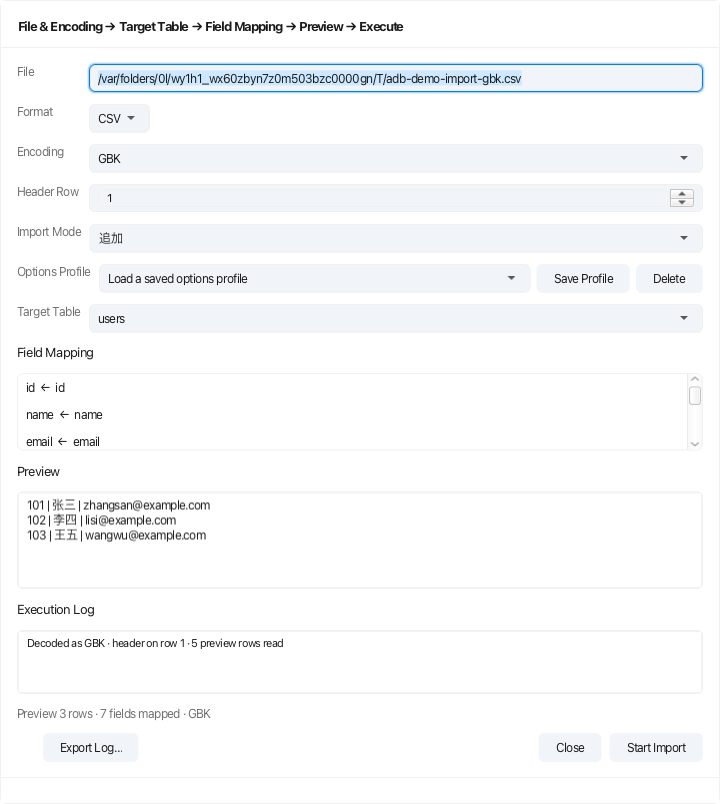
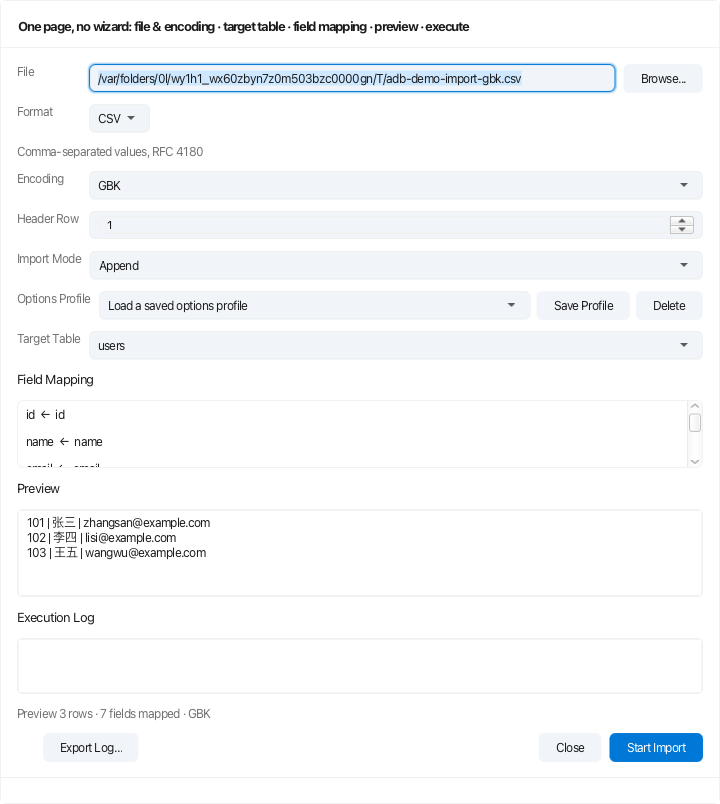
feat(ui): R65-c —— D-73 三向导路径格补真浏览按钮 + #wizard-browse 补上门禁
D-73：导出/导入两个向导的 Target File / File 两格此前只能一个字符一个字符敲绝对路径，
行尾是空的；全仓只有连接向导有 FileChooser。三处同族一次收：路径格与 Browse 按钮进同一个
HBox（字段吃剩余宽度），选择通道抽成可注入字段 fileChooser + setFileChooserForTest ——
Monocle 按不住原生面板，真弹窗在这台机器上永远等不到返回值，不注入就没法把
「按钮点了没反应」和「按钮根本没接选择器」区分开。回填仍过 withExtension（后缀与格式不能对不上），
导入侧不手动刷预览，回填骑 D-67 那条真实监听器。
先例 #wizard-browse 至今零门禁，本轮一起钉住 —— 别让后人抄一个没验证过的形状。

资源：export.target.chooserTitle / import.file.chooserTitle 各两份，wizard.file.* 复用连接向导已有三条。

门禁 3 条先红后绿：bothWizardsOfferAFileChooserForTheirPathField（存在 + 与路径格同一行，
sharesARowWith 往上走最多三层、不写死层数，实现换包法不该红在版式上）、
browseButtonsFillThePathFromTheChosenFile（数选择器调用次数 + 回填 + 后缀闸 + 预览自己出来）、
ConnectionWizardTest.theSqliteBrowseButtonFillsTheFileFieldFromTheChooser（可见 + 真弹 + 回填）。
变异 8 条各红自己：M1/M3 按钮挪出行、M2a/M4/M5b handler 掏空（假按钮）、
M2b 摘 setText、M5c 先例按钮挪出行、M6 回填绕过 withExtension。

三条口径：① 后缀期望我第一版编严了 —— withExtension 只替换已知导出后缀，
report.dat 原样保留，所以期望改成 picked-report.json → .csv；红了先回代码核实规则，别改实现迎合期望。
② 跨类级联红不是变异的证据：M1 那轮三条全红，连接那条单跑必绿 —— 前一个类失败会挪走
TestFX 的窗口目标。判隔离只认单跑。
③ 帧会被同树别的会话覆盖：20:14 另一会话的全量帧批把我刚拍的 p8-export 盖回 HEAD 旧图，
我差点据此判「导出侧按钮没渲染」。此后拍完立刻留一份副本、读之前先比 md5/字节数。

回归：adb-ui-core 69/0；adb-ui-shell 全量 915 条仅 1 红 = D-85 第一族 pose 浮层（单类 10/0 绿）；
另有一轮 423 条时 fork JVM 在 ToolbarIconChannelTest 无声退出（Exit Code 0、无 dump、单跑 6/0 绿）
—— 记为 D-85 第四族。基线 912 → 915（+3 条新门禁）。
帧：p8-export 720x725 → 720x779、p8-import 720x779 → 720x804，两格行尾均实拍到 Browse…。

diff --git a/ui/adb-ui-shell/src/test/java/io/agenticdb/ui/shell/TransferWizardTest.java b/ui/adb-ui-shell/src/test/java/io/agenticdb/ui/shell/TransferWizardTest.java
@@ -1020,6 +1020,133 @@ class TransferWizardTest {
         }
     }
 
+    /**
+     * ⭐ D-73（2026-11-05）：两个向导的路径格不许只有手打。
+     *
+     * <p>帧证 `p8-export` / `p8-import`：Target File / File 两行行尾**没有浏览按钮**，
+     * 路径只能一个字符一个字符敲 —— 而同仓 `ConnectionWizard` 早就有 `#wizard-browse`
+     * 的正确先例（HBox + ghost 按钮 + FileChooser 回填）。向导族里只有连接向导能选文件，
+     * 这就是「同一件事两套做法」的形状，不是缺功能。
+     */
+    @Test
+    void bothWizardsOfferAFileChooserForTheirPathField() throws Exception {
+        DbSession session = JdbcSession.open(ConnectionSpec.sqlite(
+                DemoDatabase.create(temp.resolve("d73a.db"))));
+        executor = Executors.newSingleThreadExecutor();
+        try {
+            ExportWizard export = onFx(() -> new ExportWizard(session, "users",
+                    List.of("id", "name"), ExportWizard.Scope.WHOLE_TABLE,
+                    temp.resolve("d73a.csv"), executor, message -> { }));
+            ImportWizard importWizard = onFx(() -> new ImportWizard(session, "users",
+                    userColumns(), List.of("users"), null, executor, message -> { }));
+
+            // 按钮必须**和路径格在同一行**（不是页面上随便一处），否则等于没在补这条。
+            // 不写死层数：改成「从路径格往上走，能不能在某一层碰到那颗按钮」——
+            // 钉死 parent.parent 的话，实现换个包法门禁就红在版式上而不是行为上。
+            for (Object[] pair : List.of(
+                    new Object[] {export.content(), "#export-target", "#export-target-browse"},
+                    new Object[] {importWizard.content(), "#import-file", "#import-file-browse"})) {
+                VBox content = (VBox) pair[0];
+                javafx.scene.Node field = onFx(() -> content.lookup((String) pair[1]));
+                javafx.scene.Node button = onFx(() -> content.lookup((String) pair[2]));
+                assertThat(button)
+                        .as(pair[2] + " 必须存在（帧上实拍路径行行尾是空的）")
+                        .isInstanceOf(javafx.scene.control.Button.class);
+                assertThat(sharesARowWith(field, button))
+                        .as(pair[2] + " 必须排在 " + pair[1] + " 同一行右侧")
+                        .isTrue();
+            }
+        } finally {
+            executor.shutdownNow();
+            session.close();
+        }
+    }
+
+    /** 从 field 往上走最多三层，看这一支里是否也装着 button。 */
+    private static boolean sharesARowWith(javafx.scene.Node field, javafx.scene.Node button) {
+        javafx.scene.Node cursor = field.getParent();
+        for (int depth = 0; cursor != null && depth < 3; depth++, cursor = cursor.getParent()) {
+            if (cursor instanceof javafx.scene.layout.Pane pane
+                    && pane.getChildren().contains(button)) {
+                return true;
+            }
+        }
+        return false;
+    }
+
+    /**
+     * D-73：按下浏览 → 选中的文件真的回填进路径格。
+     *
+     * <p>选择器走**注入替身**（`setFileChooserForTest`）：Monocle 按不住原生面板，
+     * 真弹窗在这台机器上永远等不到结果 —— 但替身必须被调用到，
+     * 否则「按钮存在但点了什么也不做」照样能绿（所以断言里数了调用次数）。
+     */
+    @Test
+    void browseButtonsFillThePathFromTheChosenFile() throws Exception {
+        DbSession session = JdbcSession.open(ConnectionSpec.sqlite(
+                DemoDatabase.create(temp.resolve("d73b.db"))));
+        executor = Executors.newSingleThreadExecutor();
+        try {
+            Path chosen = temp.resolve("chosen.csv");
+            Files.writeString(chosen, "id,name\n911,Picked Row\n", StandardCharsets.UTF_8);
+
+            ExportWizard export = onFx(() -> new ExportWizard(session, "users",
+                    List.of("id", "name"), ExportWizard.Scope.WHOLE_TABLE, null,
+                    executor, message -> { }));
+            ImportWizard importWizard = onFx(() -> new ImportWizard(session, "users",
+                    userColumns(), List.of("users"), null, executor, message -> { }));
+
+            AtomicReference<Integer> exportCalls = new AtomicReference<>(0);
+            AtomicReference<Integer> importCalls = new AtomicReference<>(0);
+            onFxRun(() -> {
+                export.setFileChooserForTest(window -> {
+                    exportCalls.set(exportCalls.get() + 1);
+                    return chosen.toFile();
+                });
+                importWizard.setFileChooserForTest(window -> {
+                    importCalls.set(importCalls.get() + 1);
+                    return chosen.toFile();
+                });
+            });
+
+            onFxRun(() -> ((javafx.scene.control.Button)
+                    export.content().lookup("#export-target-browse")).fire());
+            TextField exportField = onFx(() -> (TextField) export.content().lookup("#export-target"));
+            assertThat(exportCalls.get()).as("浏览必须真的走选择器，不是硬塞一个路径").isEqualTo(1);
+            assertThat(exportField.getText())
+                    .as("选中的文件要回填进导出目标格（含当前格式的扩展名）")
+                    .startsWith(chosen.toAbsolutePath().toString());
+
+            // ⭐ 浏览这条路也要过后缀闸：选一个**已知导出后缀**与当前格式不符的文件，
+            //    回填的要折成当前格式的 .csv（`withExtension` 的既有规则：只动已知后缀，
+            //    用户自定义名如 `report.dat` 原样保留）。少了这句，
+            //    「浏览直接 setText(picked.getAbsolutePath())」也能全绿 ——
+            //    界面标着 CSV、落盘文件叫 .json，导出完用户自己找不到东西。
+            Path knownWrong = temp.resolve("picked-report.json");
+            onFxRun(() -> export.setFileChooserForTest(window -> knownWrong.toFile()));
+            onFxRun(() -> ((javafx.scene.control.Button)
+                    export.content().lookup("#export-target-browse")).fire());
+            assertThat(exportField.getText())
+                    .as("选中已知后缀与格式不符的文件时，要按当前格式改写后缀（默认 CSV）")
+                    .isEqualTo(temp.resolve("picked-report.csv").toAbsolutePath().toString());
+
+            onFxRun(() -> ((javafx.scene.control.Button)
+                    importWizard.content().lookup("#import-file-browse")).fire());
+            TextField importField = onFx(() -> (TextField) importWizard.content().lookup("#import-file"));
+            assertThat(importCalls.get()).isEqualTo(1);
+            assertThat(importField.getText()).isEqualTo(chosen.toAbsolutePath().toString());
+
+            // ⭐ 回填必须走 D-67 那条真实联动（监听器），不是测试自己手动刷预览。
+            TextArea preview = onFx(() -> (TextArea) importWizard.content().lookup("#import-preview"));
+            assertThat(preview.getText())
+                    .as("浏览选完文件，预览就该自己出来（点了按钮还要手敲才算数 = 假按钮）")
+                    .contains("911 | Picked Row");
+        } finally {
+            executor.shutdownNow();
+            session.close();
+        }
+    }
+
     @Test
     void importModeComboSpeaksTheUsersLanguage() throws Exception {
         DbSession session = JdbcSession.open(ConnectionSpec.sqlite(

diff --git a/ui/adb-ui-shell/src/main/java/io/agenticdb/ui/shell/ExportWizard.java b/ui/adb-ui-shell/src/main/java/io/agenticdb/ui/shell/ExportWizard.java
@@ -146,6 +146,29 @@ final class ExportWizard {
     /** 打开时记住拥有者窗口 —— 大表确认那颗 Alert 要用它取主题。 */
     private javafx.stage.Window owner;
 
+    /**
+     * ⭐ D-73：文件选择通道。默认是系统保存面板；门禁换成替身
+     * （{@link #setFileChooserForTest}）—— Monocle 按不住原生面板，
+     * 真弹窗在这台机器上永远等不到返回值，于是「按钮点了没反应」在测试里无法与
+     * 「按钮根本没接选择器」区分。
+     */
+    private java.util.function.Function<javafx.stage.Window, java.io.File> fileChooser = window -> {
+        ExportFormat format = formatBox.getValue();
+        javafx.stage.FileChooser chooser = new javafx.stage.FileChooser();
+        chooser.setTitle(I18n.t("export.target.chooserTitle"));
+        chooser.setInitialFileName(withExtension("export", format));
+        chooser.getExtensionFilters().addAll(
+                new javafx.stage.FileChooser.ExtensionFilter(format.label(), "*" + format.extension()),
+                new javafx.stage.FileChooser.ExtensionFilter(
+                        I18n.t("wizard.file.filter.all"), "*.*"));
+        return chooser.showSaveDialog(window);
+    };
+
+    /** 测试替身：见 {@link #fileChooser}。 */
+    void setFileChooserForTest(java.util.function.Function<javafx.stage.Window, java.io.File> chooser) {
+        this.fileChooser = chooser;
+    }
+
     ExportWizard(DbSession session, String tableName, List<String> columns, Scope defaultScope,
                  Path defaultTarget, Executor dbExecutor, Consumer<String> status) {
         this(session, tableName, columns, defaultScope, defaultTarget, dbExecutor, status,
@@ -251,6 +274,21 @@ final class ExportWizard {
         targetField.setText(defaultTarget == null ? "" : defaultTarget.toString());
         targetField.setPromptText(I18n.t("export.target.prompt"));
 
+        // ⭐ D-73：路径格右侧补浏览按钮 —— 抄的是 `ConnectionWizard#wizard-browse`，
+        //    以前整个向导族只有连接向导能选文件，这两个向导的路径只能一个字符一个字符敲。
+        Button targetBrowse = new Button(I18n.t("wizard.browse"));
+        targetBrowse.setId("export-target-browse");
+        targetBrowse.getStyleClass().addAll("adb-button", "adb-button--ghost");
+        targetBrowse.setOnAction(event -> {
+            java.io.File picked = fileChooser.apply(owner);
+            if (picked != null) {
+                // 选完仍要过 withExtension：用户在面板里把后缀打掉了，格式与文件就不能对不上。
+                targetField.setText(withExtension(picked.getAbsolutePath(), formatBox.getValue()));
+            }
+        });
+        HBox targetRow = new HBox(8, targetField, targetBrowse);
+        HBox.setHgrow(targetField, Priority.ALWAYS);
+
         log.setId("export-log");
         log.setEditable(false);
         log.setPrefRowCount(5);
@@ -288,7 +326,7 @@ final class ExportWizard {
                 field(I18n.t("export.field.scope"), scopeBox),
                 field(I18n.t("menu.format"), formatBox),
                 formatHint,
-                field(I18n.t("export.field.target"), targetField),
+                field(I18n.t("export.field.target"), targetRow),
                 new Label(I18n.t("newtable.tab.fields")),
                 columnScroll,
                 fieldActions,

diff --git a/ui/adb-ui-shell/src/test/java/io/agenticdb/ui/shell/ConnectionWizardTest.java b/ui/adb-ui-shell/src/test/java/io/agenticdb/ui/shell/ConnectionWizardTest.java
@@ -11,6 +11,7 @@ import io.agenticdb.ui.I18n;
 import javafx.scene.Scene;
 import javafx.scene.control.CheckBox;
 import javafx.scene.control.ComboBox;
+import javafx.scene.control.Button;
 import javafx.scene.control.Label;
 import javafx.scene.control.PasswordField;
 import javafx.scene.control.Tab;
@@ -963,6 +964,47 @@ class ConnectionWizardTest {
                 .containsEntry("characterEncoding", "UTF-8")
                 .containsEntry("serverTimezone", "Asia/Shanghai")
                 .containsEntry("remarks", "生产库，只读账号");
+    }
+
+    // ─────────────────── D-73：浏览按钮（这颗键此前**零门禁**） ───────────────────
+
+    /**
+     * ⭐ D-73 顺带还的账：`#wizard-browse` 是全仓唯一能选文件的路径按钮，
+     * 但从来没有一条门禁点过它 —— 上面那条 sqlite 用例是**手打路径**过去的。
+     * 补传输向导的浏览时先把它钉住，否则「正确先例」本身没人守，抄的人抄的是个没验证过的形状。
+     */
+    @Test
+    void theSqliteBrowseButtonFillsTheFileFieldFromTheChooser(FxRobot robot) throws Exception {
+        open(robot, null);
+        goToProperties(robot, DialectKind.SQLITE);
+
+        AtomicReference<Integer> chooserCalls = new AtomicReference<>(0);
+        interact(() -> wizard.setFileChooserForTest(window -> {
+            chooserCalls.set(chooserCalls.get() + 1);
+            return sqliteFile.toFile();
+        }));
+
+        // 查这颗键走 **wizard.stepContent() 的子树**，不走 robot.lookup：
+        // robot 的目标窗口是 listWindows()[0]，同一 JVM 里前一个测试类留下的窗口会把下标挪走
+        // （本轮 M1 变异只改了 ExportWizard，这条却跟着红 —— 就是那个漏）。
+        // 用 fire() 而不是 clickOn()：布局脉冲没走时它的宽还是 0，clickOn 会红在「查不到可点的节点」
+        // 而不是「行为没做」；fire() 走的仍是真按钮的 handler，可见性单独用 isVisible() 钉。
+        AtomicReference<Button> browse = new AtomicReference<>();
+        interact(() -> browse.set((Button) wizard.stepContent().lookup("#wizard-browse")));
+        assertThat(browse.get()).as("#wizard-browse 必须挂在 SQLite 那格右侧").isNotNull();
+        assertThat(browse.get().isVisible())
+                .as("浏览按钮必须真的可见（不是被布局挤成 0 宽）").isTrue();
+        interact(() -> browse.get().fire());
+
+        assertThat(chooserCalls.get())
+                .as("按下浏览要**真的**打开选择器（点了不弹 = 假按钮）")
+                .isEqualTo(1);
+        AtomicReference<String> filled = new AtomicReference<>();
+        interact(() -> filled.set(
+                ((TextField) wizard.stepContent().lookup("#wizard-file")).getText()));
+        assertThat(filled.get())
+                .as("选中的文件要回填进路径格")
+                .isEqualTo(sqliteFile.toAbsolutePath().toString());
     }
 
     // ─────────────────── 既有回归（4.5-12 / 回填 / 口令） ───────────────────

diff --git a/ui/adb-ui-shell/src/main/java/io/agenticdb/ui/shell/ImportWizard.java b/ui/adb-ui-shell/src/main/java/io/agenticdb/ui/shell/ImportWizard.java
@@ -93,6 +93,27 @@ final class ImportWizard {
 
     private volatile boolean running;
 
+    /**
+     * ⭐ D-73：文件选择通道（与 {@code ExportWizard} 同式）。默认走系统打开面板，
+     * 门禁换替身 —— 原生面板在 Monocle 下按不住，真弹窗永远等不到返回值。
+     */
+    private java.util.function.Function<javafx.stage.Window, java.io.File> fileChooser = window -> {
+        ImportFormat format = formatBox.getValue();
+        javafx.stage.FileChooser chooser = new javafx.stage.FileChooser();
+        chooser.setTitle(I18n.t("import.file.chooserTitle"));
+        chooser.getExtensionFilters().addAll(
+                new javafx.stage.FileChooser.ExtensionFilter(format.label(),
+                        "*." + format.name().toLowerCase(java.util.Locale.ROOT)),
+                new javafx.stage.FileChooser.ExtensionFilter(
+                        I18n.t("wizard.file.filter.all"), "*.*"));
+        return chooser.showOpenDialog(window);
+    };
+
+    /** 测试替身：见 {@link #fileChooser}。 */
+    void setFileChooserForTest(java.util.function.Function<javafx.stage.Window, java.io.File> chooser) {
+        this.fileChooser = chooser;
+    }
+
     ImportWizard(DbSession session, String tableName, List<ColumnDef> columns,
                  List<String> availableTables, Path initialFile, Executor dbExecutor,
                  Consumer<String> status) {
@@ -126,6 +147,20 @@ final class ImportWizard {
         fileField.setId("import-file");
         fileField.setText(initialFile == null ? "" : initialFile.toString());
         fileField.setPromptText(I18n.t("import.file.prompt"));
+
+        // ⭐ D-73：与导出侧同批补的浏览按钮。回填走 textProperty 的监听（D-67 那条真实联动），
+        //    所以这里**不**手动调 refreshPreview —— 门禁钉的就是「选完文件预览自己出来」。
+        Button fileBrowse = new Button(I18n.t("wizard.browse"));
+        fileBrowse.setId("import-file-browse");
+        fileBrowse.getStyleClass().addAll("adb-button", "adb-button--ghost");
+        fileBrowse.setOnAction(event -> {
+            java.io.File picked = fileChooser.apply(ownerWindow());
+            if (picked != null) {
+                fileField.setText(picked.getAbsolutePath());
+            }
+        });
+        HBox fileRow = new HBox(8, fileField, fileBrowse);
+        HBox.setHgrow(fileField, Priority.ALWAYS);
 
         formatBox.setId("import-format");
         formatBox.getItems().setAll(ImportFormat.values());
@@ -248,7 +283,7 @@ final class ImportWizard {
         actions.setAlignment(Pos.CENTER_RIGHT);
 
         content.getChildren().addAll(
-                field(I18n.t("menu.file"), fileField),
+                field(I18n.t("menu.file"), fileRow),
                 field(I18n.t("menu.format"), formatBox),
                 formatHint,
                 field(I18n.t("import.field.encoding"), charsetBox),

diff --git a/ui/adb-ui-shell/src/main/java/io/agenticdb/ui/shell/ConnectionWizard.java b/ui/adb-ui-shell/src/main/java/io/agenticdb/ui/shell/ConnectionWizard.java
@@ -169,6 +169,24 @@ public final class ConnectionWizard {
 
     private final TextField name = new TextField();
     private final TextField file = new TextField();
+
+    /**
+     * ⭐ D-73：SQLite 那格的文件选择通道。默认是系统保存面板，门禁换替身
+     * （原生面板在 Monocle 下按不住）。
+     */
+    private java.util.function.Function<javafx.stage.Window, java.io.File> fileChooser = window -> {
+        FileChooser chooser = new FileChooser();
+        chooser.setTitle(I18n.t("wizard.file.chooserTitle"));
+        chooser.getExtensionFilters().addAll(
+                new FileChooser.ExtensionFilter(I18n.t("wizard.file.filter.sqlite"), "*.db", "*.sqlite"),
+                new FileChooser.ExtensionFilter(I18n.t("wizard.file.filter.all"), "*.*"));
+        return chooser.showSaveDialog(window);
+    };
+
+    /** 测试替身：见 {@link #fileChooser}。 */
+    void setFileChooserForTest(java.util.function.Function<javafx.stage.Window, java.io.File> chooser) {
+        this.fileChooser = chooser;
+    }
     private final TextField host = new TextField();
     private final TextField port = new TextField();
     private final TextField database = new TextField();
@@ -768,12 +786,9 @@ public final class ConnectionWizard {
             browse.setId("wizard-browse");
             browse.getStyleClass().addAll("adb-button", "adb-button--ghost");
             browse.setOnAction(event -> {
-                FileChooser chooser = new FileChooser();
-                chooser.setTitle(I18n.t("wizard.file.chooserTitle"));
-                chooser.getExtensionFilters().addAll(
-                        new FileChooser.ExtensionFilter(I18n.t("wizard.file.filter.sqlite"), "*.db", "*.sqlite"),
-                        new FileChooser.ExtensionFilter(I18n.t("wizard.file.filter.all"), "*.*"));
-                java.io.File selected = chooser.showSaveDialog(dialog.getOwner());
+                // ⭐ D-73：选择通道抽成字段（向导族里这颗键是唯一的先例，却从没被门禁点过 ——
+                //    传输那两个向导补浏览时抄的就是它，先把它钉住，别让后人抄一个没验证过的形状）。
+                java.io.File selected = fileChooser.apply(dialog.getOwner());
                 if (selected != null) {
                     file.setText(selected.getAbsolutePath());
                 }
